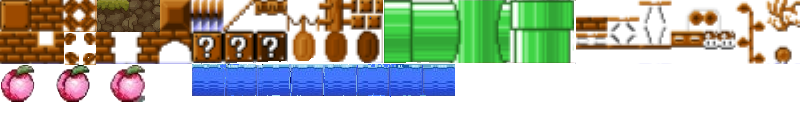
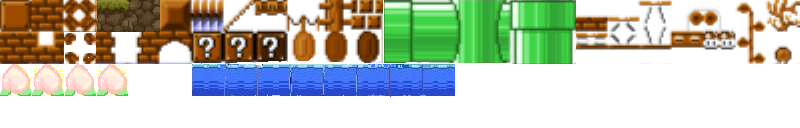
Update peachs.

Changed region(s): [[0.0, 0.5, 0.1875, 0.8125], [0.625, 0.0, 0.7188, 0.5]]

diff --git a/src/Item.cpp b/src/Item.cpp
@@ -109,9 +109,10 @@ Item* ItemFactory::createItem(const std::string& type,
     Item* powerUp = new PowerUp(texture);
     powerUp->setPosition(position.x, position.y);
     auto animation = new BlockAnimation(powerUp->getSprite(), 0.3f);
-    animation->addFrame(sf::IntRect(0, 64, 36, 36));
-    animation->addFrame(sf::IntRect(56, 64, 36, 36));
-    animation->addFrame(sf::IntRect(112, 64, 36, 36));
+    animation->addFrame(sf::IntRect(0, 64, 32, 32));
+    animation->addFrame(sf::IntRect(32, 64, 32, 32));
+    animation->addFrame(sf::IntRect(64, 64, 32, 32));
+    animation->addFrame(sf::IntRect(96, 64, 32, 32));
     powerUp->setAnimation(animation);
     auto movement = new PatrolMovement();
     powerUp->setMovement(movement);

diff --git a/header/Block.h b/header/Block.h
@@ -1,5 +1,4 @@
-#ifndef BLOCK_H
-#define BLOCK_H
+#pragma once
 
 #include <SFML/Graphics.hpp>
 #include "MovementStrategy.h"
@@ -103,4 +102,4 @@ public:
 
 
 
-#endif  // !BLOCK_H
+
